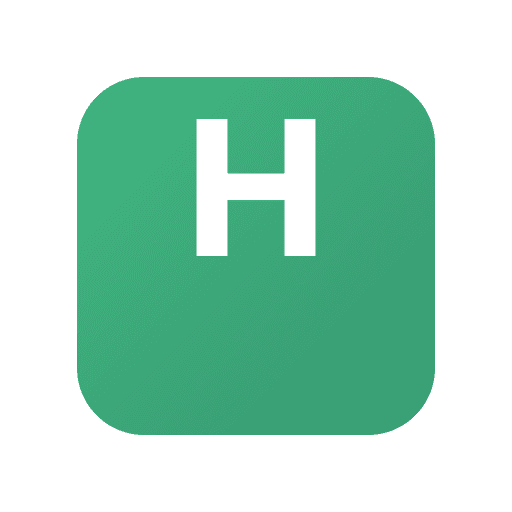
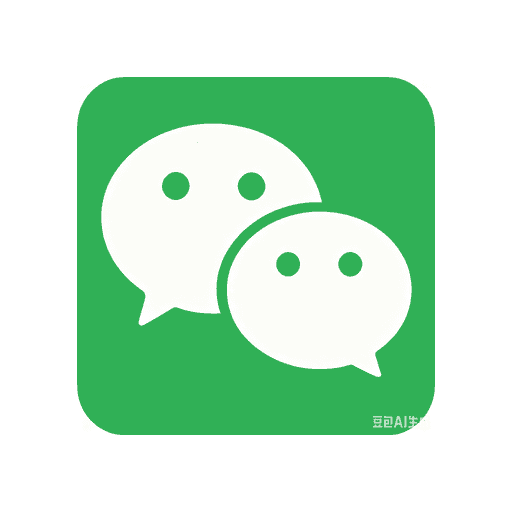
Merge worktree branch feat-design-h5-mobile-web-app-knWCAN

diff --git a/dev-dist/sw.js b/dev-dist/sw.js
@@ -77,8 +77,11 @@ define(['./workbox-5daee600'], (function (workbox) { 'use strict';
    * See https://goo.gl/S9QRab
    */
   workbox.precacheAndRoute([{
+    "url": "registerSW.js",
+    "revision": "3ca0b8505b4bec776b69afdba2768812"
+  }, {
     "url": "index.html",
-    "revision": "0.m8oogureki"
+    "revision": "0.cb6m22f9248"
   }], {});
   workbox.cleanupOutdatedCaches();
   workbox.registerRoute(new workbox.NavigationRoute(workbox.createHandlerBoundToURL("index.html"), {

diff --git a/index.html b/index.html
@@ -8,7 +8,7 @@
     />
     <link rel="icon" href="/pwa-assets/favicon.ico" sizes="any" />
     <link rel="icon" href="/pwa-assets/source.svg" type="image/svg+xml" />
-    <meta name="theme-color" content="#ffffff" />
+    <meta name="theme-color" content="#07C160" />
 
     <meta name="apple-mobile-web-app-capable" content="yes" />
     <meta name="apple-mobile-web-app-status-bar-style" content="default" />

diff --git a/vite.config.js b/vite.config.js
@@ -20,7 +20,7 @@ export default defineConfig({
         name: 'H5 PWA App',
         short_name: 'H5 App',
         description: '一个纯前端 H5 PWA 应用示例',
-        theme_color: '#ffffff',
+        theme_color: '#07C160',
         background_color: '#ffffff',
         display: 'standalone',
         orientation: 'portrait',

diff --git a/pwa-assets.config.js b/pwa-assets.config.js
@@ -3,5 +3,5 @@ import { minimal2023Preset } from '@vite-pwa/assets-generator/presets/minimal-20
 
 export default defineConfig({
   preset: minimal2023Preset,
-  images: ['public/pwa-assets/source.svg'],
+  images: ['public/pwa-assets/source.png'],
 })
